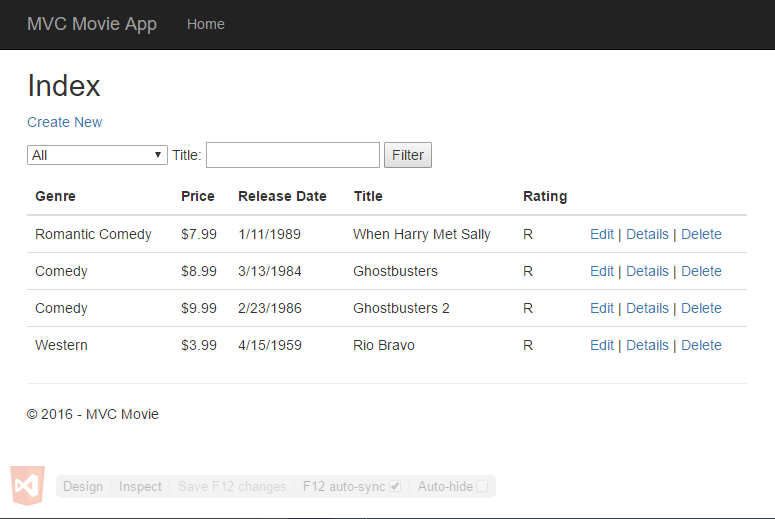
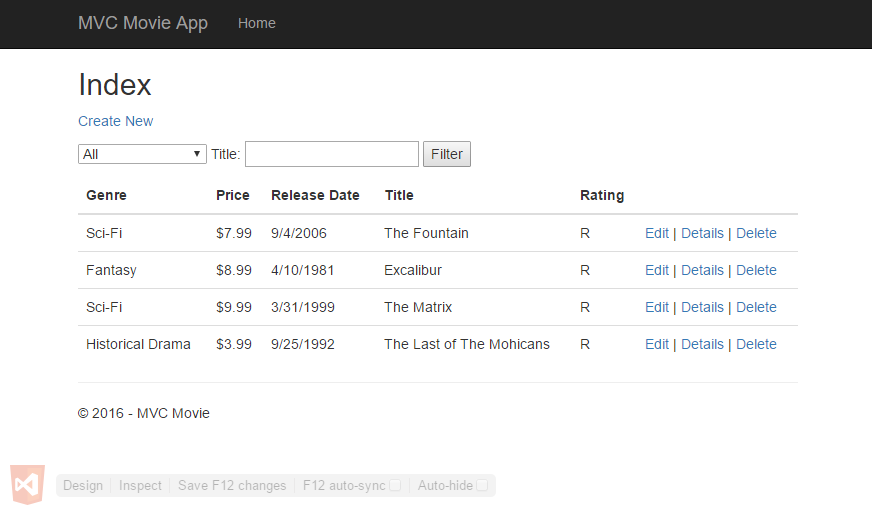
Movie titles edit; resources img.

diff --git a/src/MvcMovie/Models/SeedData.cs b/src/MvcMovie/Models/SeedData.cs
@@ -22,36 +22,36 @@ namespace MvcMovie.Models
                 context.Movie.AddRange(
                      new Movie
                      {
-                         Title = "When Harry Met Sally",
-                         ReleaseDate = DateTime.Parse("1989-1-11"),
-                         Genre = "Romantic Comedy",
+                         Title = "The Fountain",
+                         ReleaseDate = DateTime.Parse("2006-09-4"),
+                         Genre = "Sci-Fi",
                          Rating = "R",
                          Price = 7.99M
                      },
 
                      new Movie
                      {
-                         Title = "Ghostbusters ",
-                         ReleaseDate = DateTime.Parse("1984-3-13"),
-                         Genre = "Comedy",
+                         Title = "Excalibur",
+                         ReleaseDate = DateTime.Parse("1981-04-10"),
+                         Genre = "Fantasy",
                          Rating = "R",
                          Price = 8.99M
                      },
 
                      new Movie
                      {
-                         Title = "Ghostbusters 2",
-                         ReleaseDate = DateTime.Parse("1986-2-23"),
-                         Genre = "Comedy",
+                         Title = "The Matrix",
+                         ReleaseDate = DateTime.Parse("1999-03-31"),
+                         Genre = "Sci-Fi",
                          Rating = "R",
                          Price = 9.99M
                      },
 
                    new Movie
                    {
-                       Title = "Rio Bravo",
-                       ReleaseDate = DateTime.Parse("1959-4-15"),
-                       Genre = "Western",
+                       Title = "The Last of The Mohicans",
+                       ReleaseDate = DateTime.Parse("1992-09-25"),
+                       Genre = "Historical Drama",
                        Rating = "R",
                        Price = 3.99M
                    }
